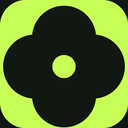
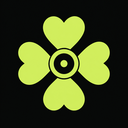
使用 gpt-image-2 重制品牌标志与营销图

diff --git a/docs/store-assets/source/store-assets.html b/docs/store-assets/source/store-assets.html
@@ -15,37 +15,10 @@
       .asset { position: relative; width: 100vw; height: 100vh; overflow: hidden; }
       .brand { display: flex; align-items: center; gap: 14px; font-size: 22px; font-weight: 760; }
       .mark {
-        display: grid;
-        place-items: center;
-        position: relative;
         width: 48px;
         height: 48px;
         border-radius: 11px;
-        color: #111812;
-        background: #84ad13;
-        font-size: 26px;
-        font-weight: 850;
-      }
-      .mark::before {
-        position: absolute;
-        top: 11px;
-        left: 11px;
-        width: 12px;
-        height: 12px;
-        border-radius: 50%;
-        background: currentColor;
-        box-shadow: 14px 0 currentColor, 0 14px currentColor, 14px 14px currentColor;
-        content: "";
-      }
-      .mark::after {
-        position: absolute;
-        top: 20px;
-        left: 20px;
-        width: 8px;
-        height: 8px;
-        border-radius: 50%;
-        background: #84ad13;
-        content: "";
+        background: #101712 url("../../../public/icon/128.png") center / cover no-repeat;
       }
       .eyebrow { margin: 0 0 16px; color: #5f7f08; font-size: 16px; font-weight: 760; text-transform: uppercase; }
       h1 { margin: 0; max-width: 480px; font-size: 56px; line-height: 1.02; font-weight: 780; }
@@ -67,8 +40,6 @@
       .coverage .rail { position: absolute; inset: 0 auto 0 0; width: 14px; background: #84ad13; }
       .smart { background: #101712; color: #f5f3e9; }
       .smart .brand { position: absolute; top: 48px; left: 58px; }
-      .smart .mark { background: #c8ff56; }
-      .smart .mark::after { background: #c8ff56; }
       .smart .copy { position: absolute; left: 58px; top: 188px; width: 470px; }
       .smart .eyebrow { color: #c8ff56; }
       .smart p { color: #b8c1b9; }

diff --git a/entrypoints/sidepanel/style.css b/entrypoints/sidepanel/style.css
@@ -59,9 +59,7 @@ svg { height: 17px; width: 17px; }
 
 .workspace-brand { align-items: center; display: flex; gap: 9px; min-width: 0; }
 .workspace-brand > div:last-child { min-width: 0; }
-.workspace-mark { align-items: center; background: var(--accent); border: 1px solid color-mix(in srgb, var(--accent) 72%, var(--line)); border-radius: 6px; color: #111713; display: flex; height: 36px; justify-content: center; position: relative; width: 36px; }
-.workspace-mark::before { background: currentColor; border-radius: 50%; box-shadow: 10px 0 currentColor, 0 10px currentColor, 10px 10px currentColor; content: ""; height: 10px; left: 8px; position: absolute; top: 7px; width: 10px; }
-.workspace-mark::after { background: var(--accent); border-radius: 50%; content: ""; height: 6px; left: 15px; position: absolute; top: 14px; width: 6px; }
+.workspace-mark { align-items: center; background: #101712 url("/icon/128.png") center / cover no-repeat; border: 1px solid color-mix(in srgb, #101712 72%, var(--line)); border-radius: 6px; display: flex; height: 36px; justify-content: center; position: relative; width: 36px; }
 .workspace-brand h1 { font-size: 15px; line-height: 1.1; margin: 0; }
 .workspace-brand span { color: var(--muted); display: block; font-size: 10px; margin-top: 3px; max-width: 190px; overflow: hidden; text-overflow: ellipsis; white-space: nowrap; }
 .workspace-header-actions { display: flex; gap: 6px; }

diff --git a/entrypoints/popup/style.css b/entrypoints/popup/style.css
@@ -128,10 +128,9 @@ p {
 .mark {
   position: relative;
   align-items: center;
-  background: var(--accent);
-  border: 1px solid color-mix(in srgb, var(--accent) 72%, var(--line));
+  background: #101712 url("/icon/128.png") center / cover no-repeat;
+  border: 1px solid color-mix(in srgb, #101712 72%, var(--line));
   border-radius: 6px;
-  color: #111713;
   display: flex;
   font-size: 17px;
   font-weight: 950;
@@ -139,9 +138,6 @@ p {
   justify-content: center;
   width: 36px;
 }
-
-.mark::before { background: currentColor; border-radius: 50%; box-shadow: 10px 0 currentColor, 0 10px currentColor, 10px 10px currentColor; content: ""; height: 10px; left: 8px; position: absolute; top: 7px; width: 10px; }
-.mark::after { background: var(--accent); border-radius: 50%; content: ""; height: 6px; left: 15px; position: absolute; top: 14px; width: 6px; }
 
 .heading {
   min-width: 0;

diff --git a/scripts/build-store-assets.py b/scripts/build-store-assets.py
@@ -34,172 +34,47 @@ def font(size, bold=False):
     return ImageFont.load_default()
 
 
-def fit_text(draw, text, max_width, size, bold=False):
-    f = font(size, bold)
-    lines, current = [], ""
-    for char in text:
-        candidate = current + char
-        if draw.textbbox((0, 0), candidate, font=f)[2] <= max_width or not current:
-            current = candidate
-        else:
-            lines.append(current)
-            current = char
-    if current:
-        lines.append(current)
-    return lines, f
+def ai_asset(name):
+    path = ASSETS / "source" / name
+    if not path.exists():
+        raise FileNotFoundError(f"Missing required gpt-image-2 source asset: {path}")
+    return Image.open(path).convert("RGB")
 
 
-def draw_mark(draw, xy, size, background=LIME):
-    x, y = xy
-    draw.rounded_rectangle((x, y, x + size, y + size), radius=size // 5, fill=background)
-    petal = size * 0.25
-    center = (x + size * 0.5, y + size * 0.52)
-    for dx, dy in [(0, -petal * 0.9), (petal * 0.9, 0), (0, petal * 0.9), (-petal * 0.9, 0)]:
-        bbox = (
-            center[0] + dx - petal,
-            center[1] + dy - petal,
-            center[0] + dx + petal,
-            center[1] + dy + petal,
-        )
-        draw.ellipse(bbox, fill=INK)
-    draw.ellipse(
-        (center[0] - petal * 0.36, center[1] - petal * 0.36, center[0] + petal * 0.36, center[1] + petal * 0.36),
-        fill=background,
-    )
-
-
-def draw_brand(draw, x, y, size=48, dark=False):
-    draw_mark(draw, (x, y), size, "#c8ff56" if dark else LIME)
-    f = font(round(size * 0.46), True)
-    draw.text((x + size + 14, y + size * 0.18), "Yotsuba Lens", fill=LIGHT if dark else INK, font=f)
-
-
-def paste_panel(canvas, path, box):
-    panel = Image.open(path).convert("RGB")
-    panel.thumbnail((box[2] - box[0], box[3] - box[1]), Image.Resampling.LANCZOS)
-    x = box[0] + ((box[2] - box[0]) - panel.width) // 2
-    y = box[1] + ((box[3] - box[1]) - panel.height) // 2
-    canvas.paste(panel, (x, y))
-    return (x, y, panel.width, panel.height)
+def cover_crop(image, width, height, horizontal="center", vertical="center"):
+    target_ratio = width / height
+    source_ratio = image.width / image.height
+    if source_ratio > target_ratio:
+        crop_width = round(image.height * target_ratio)
+        left = 0 if horizontal == "left" else (image.width - crop_width) // 2
+        box = (left, 0, left + crop_width, image.height)
+    else:
+        crop_height = round(image.width / target_ratio)
+        top = 0 if vertical == "top" else (image.height - crop_height) // 2
+        box = (0, top, image.width, top + crop_height)
+    return image.crop(box).resize((width, height), Image.Resampling.LANCZOS)
 
 
 def make_icon():
+    source = ai_asset("yotsuba-lens-logo-final-gpt-image-2.png")
+    square_size = min(source.width, source.height)
+    left = (source.width - square_size) // 2
+    top = (source.height - square_size) // 2
+    source = source.crop((left, top, left + square_size, top + square_size))
     for size in [16, 32, 48, 128]:
-        scale = 8
-        canvas = Image.new("RGB", (size * scale, size * scale), DARK)
-        draw = ImageDraw.Draw(canvas)
-        draw_mark(draw, (0, 0), size * scale, "#c8ff56")
-        canvas.resize((size, size), Image.Resampling.LANCZOS).save(PUBLIC_ICON / f"{size}.png", format="PNG", optimize=True)
+        source.resize((size, size), Image.Resampling.LANCZOS).save(PUBLIC_ICON / f"{size}.png", format="PNG", optimize=True)
     Image.open(PUBLIC_ICON / "128.png").save(ASSETS / "icon-128.png", format="PNG", optimize=True)
 
 
 def make_small_promo():
-    ai_base_path = ASSETS / "source" / "yotsuba-lens-ai-small-promo-base.png"
-    if ai_base_path.exists():
-        source = Image.open(ai_base_path).convert("RGB")
-        crop_height = round(source.width * 280 / 440)
-        crop_top = max(0, source.height - crop_height - 72)
-        image = source.crop((0, crop_top, source.width, crop_top + crop_height)).resize((440, 280), Image.Resampling.LANCZOS)
-
-        # Keep the generated clover visible while creating a quiet copy area.
-        shade = Image.new("RGB", (440, 280), DARK)
-        mask = Image.new("L", (440, 280), 0)
-        mask_draw = ImageDraw.Draw(mask)
-        mask_draw.rectangle((0, 0, 225, 280), fill=150)
-        for x in range(225, 315):
-            alpha = round(150 * (315 - x) / 90)
-            mask_draw.line((x, 0, x, 280), fill=alpha)
-        image.paste(shade, (0, 0), mask)
-    else:
-        image = Image.new("RGB", (440, 280), DARK)
-
-    draw = ImageDraw.Draw(image)
-    draw_brand(draw, 28, 28, 44, dark=True)
-    draw.text((28, 118), "让 AI 先看懂设计", fill=LIGHT, font=font(29, True))
-    draw.text((28, 166), "结构 · 状态 · 动效", fill="#c8ff56", font=font(18, True))
-    draw.text((28, 205), "网页设计证据采集器", fill="#b8c1b9", font=font(15))
+    source = ai_asset("yotsuba-lens-promo-small-final-gpt-image-2.png")
+    image = cover_crop(source, 440, 280, horizontal="left")
     image.save(ASSETS / "promo-small-440x280.png", format="PNG", optimize=True)
 
 
-def draw_top_copy(image):
-    draw = ImageDraw.Draw(image)
-    draw.rectangle((0, 0, 18, 560), fill="#c8ff56")
-    draw_brand(draw, 64, 48, 54, dark=True)
-    draw.text((64, 180), "网页设计证据采集器", fill="#c8ff56", font=font(25, True))
-    lines, f = fit_text(draw, "捕获结构、状态与动效\n让 AI 编码更有依据", 560, 52, True)
-    y = 230
-    for line in lines:
-        draw.text((64, y), line, fill=LIGHT, font=f)
-        y += 64
-    draw.text((64, 390), "设计参照 · 经授权重建 · 智能捕获 · 缺口提示", fill="#b8c1b9", font=font(22))
-    return draw
-
-
-def sidepanel_viewport(target_width, target_height):
-    candidates = [
-        ROOT / "output" / "playwright" / "extension-ui" / "sidepanel-settings-zh-light.png",
-        ROOT / "output" / "playwright" / "extension-ui" / "sidepanel-zh-light.png",
-    ]
-    panel_path = next((candidate for candidate in candidates if candidate.exists()), None)
-    if panel_path is None:
-        return None
-    panel = Image.open(panel_path).convert("RGB")
-    panel = panel.crop((0, 0, panel.width, min(panel.height, 800)))
-    panel = panel.resize((target_width, round(panel.height * target_width / panel.width)), Image.Resampling.LANCZOS)
-    return panel.crop((0, 0, target_width, min(panel.height, target_height)))
-
-
 def make_top_promo():
-    ai_base_path = ASSETS / "source" / "yotsuba-lens-ai-marketing-base.png"
-    if ai_base_path.exists():
-        source = Image.open(ai_base_path).convert("RGB")
-        crop_height = min(source.height, round(source.width * 560 / 1400))
-        crop_top = max(0, min(60, source.height - crop_height))
-        image = source.crop((0, crop_top, source.width, crop_top + crop_height)).resize((1400, 560), Image.Resampling.LANCZOS)
-        shade = Image.new("RGB", (1400, 560), DARK)
-        mask = Image.new("L", (1400, 560), 0)
-        mask_draw = ImageDraw.Draw(mask)
-        mask_draw.rectangle((0, 0, 520, 560), fill=208)
-        for x in range(520, 700):
-            alpha = round(208 * (700 - x) / 180)
-            mask_draw.line((x, 0, x, 560), fill=alpha)
-        image.paste(shade, (0, 0), mask)
-        draw = draw_top_copy(image)
-        panel = sidepanel_viewport(292, 452)
-        if panel is not None:
-            draw.rectangle((1098, 106, 1392, 560), fill="#f5f6f0", outline="#cdd2c9", width=2)
-            image.paste(panel, (1100, 108))
-        image.save(ASSETS / "promo-top-1400x560.png", format="PNG", optimize=True)
-        return
-
-    image = Image.new("RGB", (1400, 560), DARK)
-    draw = draw_top_copy(image)
-    frame = (650, 72, 1340, 488)
-    draw.rounded_rectangle(frame, radius=12, fill="#ffffff", outline="#cdd2c9", width=2)
-    draw.rectangle((652, 74, 1338, 110), fill="#e9ece4")
-    for dot_x, color in [(672, "#ef7567"), (690, "#e7bb55"), (708, "#76b85d")]:
-        draw.ellipse((dot_x - 5, 87, dot_x + 5, 97), fill=color)
-    draw.rounded_rectangle((734, 82, 1318, 102), radius=8, fill="#ffffff", outline="#d6ddd2")
-    draw.text((748, 85), "atlas.example/design-system", fill=MUTED, font=font(12))
-
-    page_left, page_top, page_right, page_bottom = 652, 110, 1044, 486
-    draw.rectangle((page_left, page_top, page_right, page_bottom), fill="#f8faf6")
-    draw.text((680, 136), "Atlas Studio", fill=INK, font=font(22, True))
-    draw.text((680, 170), "Product design workspace", fill=MUTED, font=font(13))
-    draw.rounded_rectangle((680, 210, 1016, 286), radius=8, fill="#eef5d4")
-    draw.text((700, 232), "把复杂页面变成清晰证据", fill=INK, font=font(16, True))
-    for index, label in enumerate(["结构", "状态", "动效"]):
-        card_x = 680 + index * 113
-        draw.rounded_rectangle((card_x, 312, card_x + 100, 410), radius=7, fill="#ffffff", outline="#dfe5dc")
-        draw.text((card_x + 12, 328), label, fill=LIME_DARK, font=font(12, True))
-        draw.rectangle((card_x + 12, 360, card_x + 84, 367), fill="#dfe7d7")
-        draw.rectangle((card_x + 12, 380, card_x + 72, 387), fill="#e8ede5")
-
-    draw.rectangle((1044, 110, 1338, 486), fill="#f5f6f0")
-    draw.line((1044, 110, 1044, 486), fill="#cdd2c9", width=2)
-    panel = sidepanel_viewport(294, 376)
-    if panel is not None:
-        image.paste(panel, (1044, 110))
+    source = ai_asset("yotsuba-lens-promo-top-final-gpt-image-2.png")
+    image = cover_crop(source, 1400, 560, vertical="top")
     image.save(ASSETS / "promo-top-1400x560.png", format="PNG", optimize=True)
 
 

diff --git a/docs/store-assets/source/gpt-image-prompts.md b/docs/store-assets/source/gpt-image-prompts.md
@@ -1,0 +1,90 @@
+# Yotsuba Lens gpt-image-2 prompts
+
+这些 Prompt 用于生成 Chrome Web Store 的品牌与营销源图。最终素材直接使用
+`gpt-image-2` 输出，只进行商店要求的裁切、缩放和 RGB PNG 转换，不再局部重绘。
+
+## Logo
+
+源图：`yotsuba-lens-logo-final-gpt-image-2.png`（2048x2048）
+
+```text
+Redesign this into the final Yotsuba Lens app icon. Keep the useful idea of
+four-leaf clover plus camera lens, but simplify radically for immediate
+recognition at 16 pixels. Output exactly one centered logo, no text, no letters,
+no mockup, no presentation board, no extra symbols around it. Solid uniform
+near-black background (#101712), edge to edge square. The mark must clearly
+contain exactly FOUR separate heart-shaped clover leaves, arranged top, right,
+bottom, and left with equal spacing and perfect rotational symmetry. Each leaf
+is vivid acid lime (#C8FF56), broad, rounded and solid, with crisp hard
+vector-like edges. The leaf tips point toward a single central camera lens. The
+lens is a simple precise circular target: pale-lime outer ring, near-black inner
+circle, tiny acid-lime focus dot. The four gaps between leaves form subtle focus
+cross negative space; do not add external viewfinder brackets. Icon fills about
+72 percent of canvas with generous safe margins. Flat two-dimensional graphic
+only: absolutely no gradient, glow, shadow, texture, bevel, blur, thin stroke,
+tiny detail, photography, 3D, or anti-aliased haze. Premium, distinctive, calm
+developer-tool identity. It must look unmistakably like a four-leaf clover
+first and a lens target second.
+```
+
+## Small promo tile
+
+源图：`yotsuba-lens-promo-small-final-gpt-image-2.png`（2048x1152）
+
+```text
+Create the final premium Chrome Web Store small promotional tile for Yotsuba
+Lens. One full-bleed landscape image, not a mockup. Right side botanical
+subject: EXACTLY FOUR and only four separate smooth oval clover leaves,
+arranged as a symmetric X at northwest, northeast, southeast, and southwest
+around one visible central stem junction. Each leaf has one simple continuous
+oval silhouette, not a heart split into lobes. There must be no leaf pointing
+straight up, down, left, or right; no fifth leaf; no hidden leaf; no extra
+plant. A narrow dark design-inspector fragment may appear only at the far-right
+edge. Background is deep near-black green. Upper left: one near-black
+rounded-square logo with exactly four acid-lime clover leaves around a circular
+lens, then exact brand text 'Yotsuba Lens'. Below render exact Simplified
+Chinese: large white '让 AI 先看懂设计'; acid-lime '结构 · 状态 · 动效'; smaller
+muted white '网页设计证据采集器'. Preserve generous spacing and keep every essential
+element safely inside the central area for a 440 by 280 center crop. Premium
+quiet developer-tool visual identity, crisp high contrast, readable thumbnail,
+acid-lime/near-black/off-white only. No extra words, no duplicated logo, no
+extra leaf, no fifth leaf, no fake browser frame, no stripe, no 3D text, no
+gibberish, no transparency.
+```
+
+## Top promo tile
+
+源图：`yotsuba-lens-promo-top-final-gpt-image-2.png`（2048x1152）
+
+```text
+Create the final premium Chrome Web Store top promotional banner for Yotsuba
+Lens, a webpage design-evidence capture extension for AI coding. One full-bleed
+wide desktop composition, no outer mockup frame. The final image will be
+center-cropped to an ultra-wide 1400 by 560 ratio, so keep every essential
+element in the middle 70 percent of the image height. LEFT 40 PERCENT: deep
+uniform near-black green copy area with one subtle botanical four-leaf
+silhouette in the background. At top left, show one compact acid-lime logo made
+from exactly four leaves around a circular camera lens, followed by exact text
+'Yotsuba Lens'. Below render exact Simplified Chinese text, correctly formed and
+with no substitutions: small acid-lime eyebrow '网页设计证据采集器'; large white
+two-line headline '捕获结构、状态与动效' then '让 AI 编码更有依据'; smaller muted line
+'设计参照 · 经授权重建 · 智能捕获 · 缺口提示'. RIGHT 60 PERCENT: a realistic modern
+Chrome browser window showing a clean editorial interior-design webpage. The
+actual Chrome Side Panel is docked to the far right inside the browser. CRITICAL
+SIDE PANEL GEOMETRY: it occupies only 21 percent of the total banner width, is a
+narrow vertical panel about 320 CSS pixels wide, starts below the browser
+toolbar, touches the far-right edge, and is clipped by the bottom edge so only
+its current viewport is visible. Do not show a full long panel, do not shrink an
+entire tall page into view, do not make it a phone, and do not place the panel in
+a floating card. The Side Panel header contains a small four-leaf lens logo and
+exact text 'Yotsuba Lens'; below it use compact Chinese tabs '概览 覆盖 历史 设置'
+and concise evidence-capture controls with lime accents. Browser webpage remains
+wider than the Side Panel. Premium quiet product-marketing art direction,
+realistic browser proportions, crisp readable hierarchy, restrained
+acid-lime/near-black/off-white palette, high detail. No extra slogans, no
+duplicated logo, no five-leaf plant, no purple, no decorative gradient, no
+floating phone, no full-height side-panel overview, no transparency, no
+gibberish.
+```
+
+真实商店截图不使用 AI 生成，仍由浏览器测试输出后再排版，避免展示不存在的产品能力。

diff --git a/README.en.md b/README.en.md
@@ -1,3 +1,7 @@
+<p align="center">
+  <img src="docs/store-assets/icon-128.png" alt="Yotsuba Lens four-leaf lens mark" width="112" height="112" />
+</p>
+
 # Yotsuba Lens
 
 > Turn “use this website as a reference” into traceable, executable, and testable frontend context for AI.

diff --git a/README.md b/README.md
@@ -1,3 +1,7 @@
+<p align="center">
+  <img src="docs/store-assets/icon-128.png" alt="Yotsuba Lens 四叶草镜头标志" width="112" height="112" />
+</p>
+
 # Yotsuba Lens
 
 > 把“参考这个网站”变成可追溯、可执行、可验收的 AI 前端上下文。
